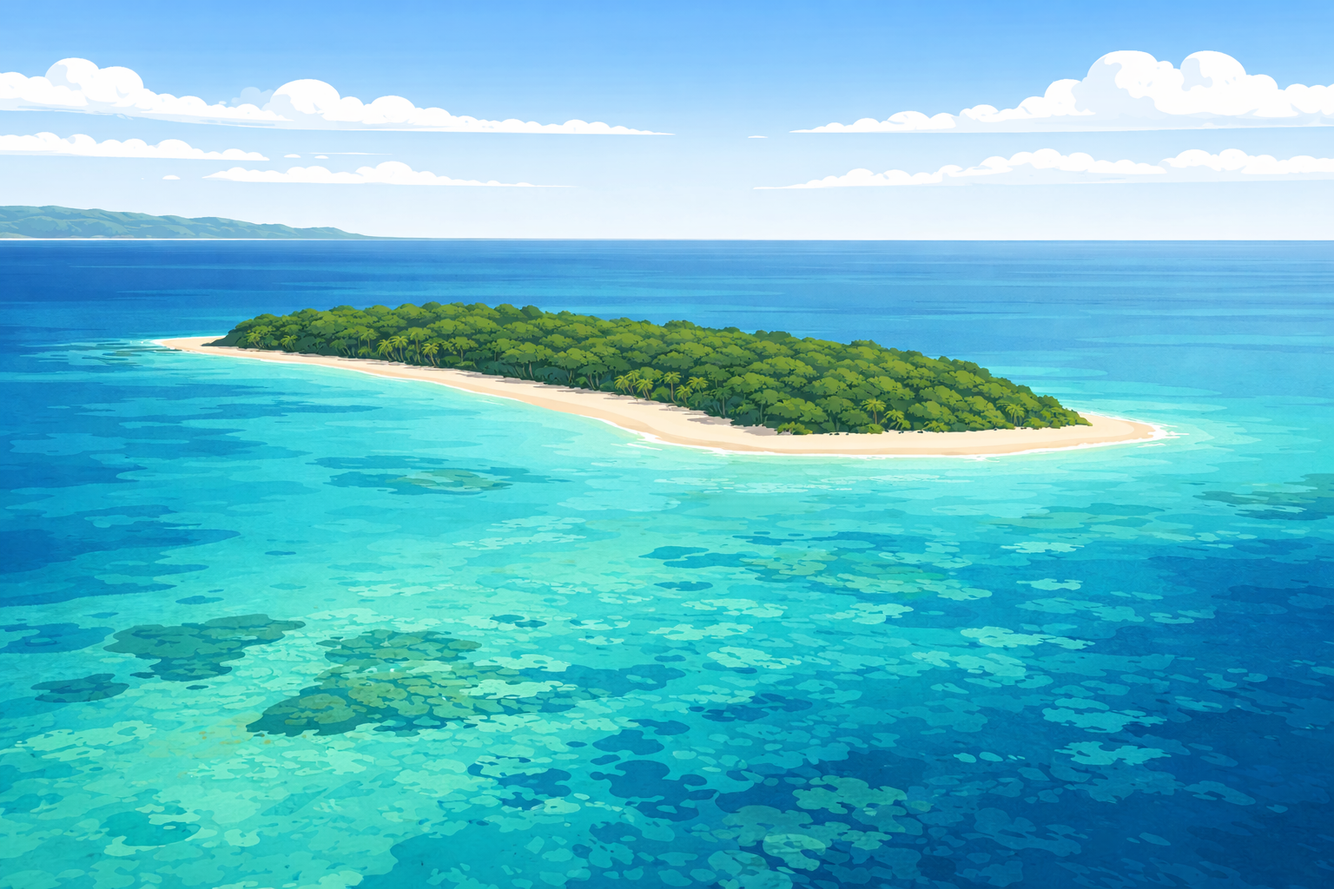
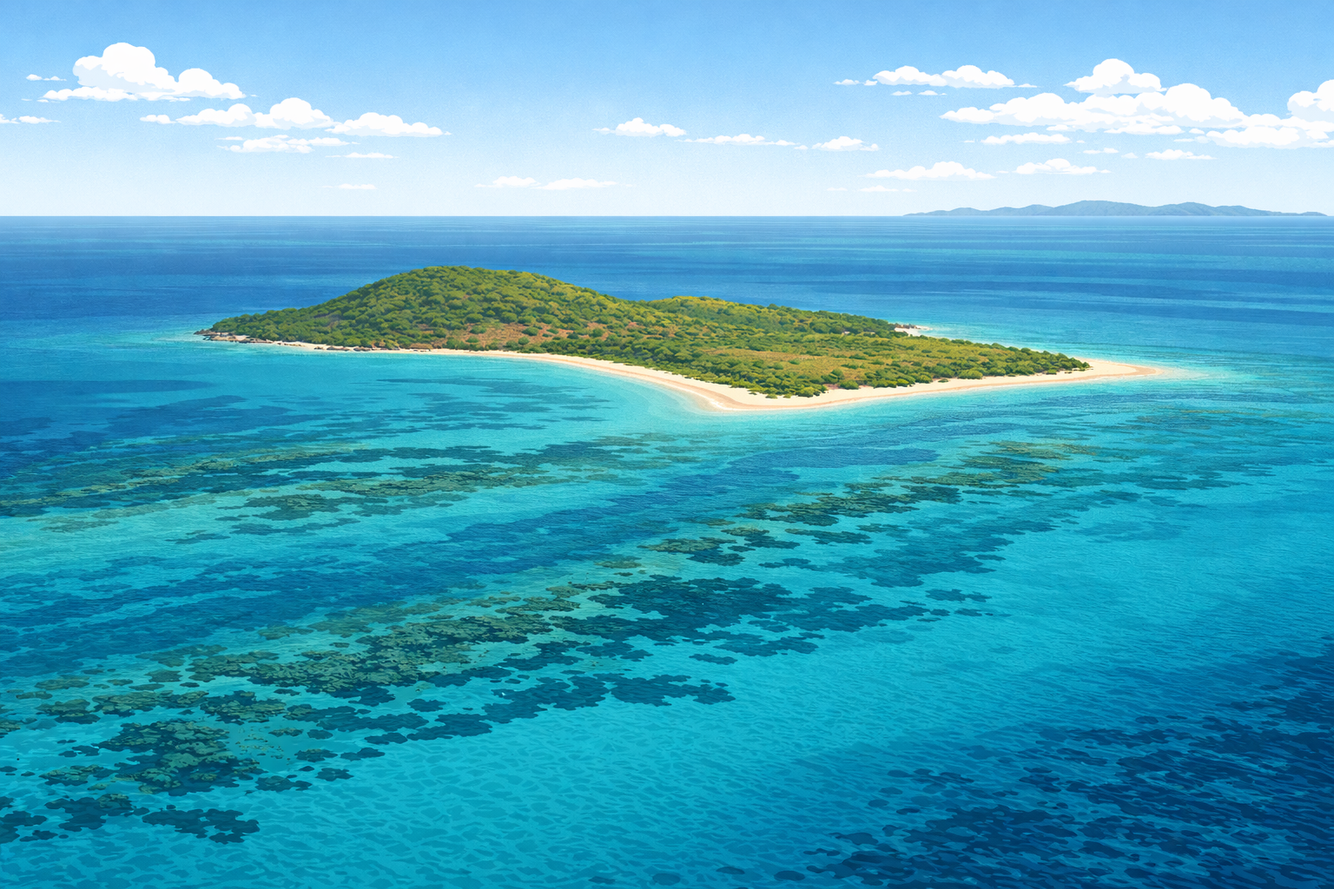
i

diff --git a/data/tours/tours_territories_pz.ts b/data/tours/tours_territories_pz.ts
@@ -1058,52 +1058,52 @@ export const toursTerritoriesPZ: Record<string, TourData> = {
     ]
   },
   "US Virgin Islands": {
-    tourTitle: "Sails, Reefs, and Island Hopping",
-    introText: "Trunk Bay features an underwater snorkeling trail with signs. Sail between the three main islands in the warm Caribbean.",
+    tourTitle: "Reefs, Ruins, and Island Time",
+    introText: "Three Caribbean islands where protected coral reefs, colonial-era forts, and tropical forest trails tell over a thousand years of human and natural history.",
     stops: [
       {
-        stopName: "Trunk Bay (St. John)",
-        imageKeyword: "Trunk Bay (St. John)",
+        stopName: "Virgin Islands National Park (St. John)",
+        imageKeyword: "Virgin Islands National Park",
         description: [
-          "Trunk Bay on the island of Saint John is one of the most photographed beaches in the Caribbean and home to a unique underwater snorkeling trail. The trail features explanatory signs mounted on the seabed that identify coral species, fish, and marine organisms as snorkelers swim along a marked path over the reef. This innovative approach to marine education was one of the first of its kind when it was established in the 1960s.",
-          "The beach itself is a sweeping crescent of white sand backed by lush green hills, most of which are protected within the Virgin Islands National Park. The park covers approximately sixty percent of Saint John and was made possible by a donation of land from Laurance Rockefeller, who fell in love with the island\'s beauty in the 1950s. The clear water and gentle currents at Trunk Bay make it suitable for snorkelers of all skill levels.",
-          "Beyond the snorkeling trail, the waters around Trunk Bay support healthy populations of sea turtles, spotted eagle rays, and colorful reef fish. The small cay offshore, known as Trunk Cay, creates a sheltered channel where marine life congregates. Despite its popularity with cruise ship excursions, the beach maintains its natural beauty thanks to the strict protections of the national park, which prohibit development along the shoreline."
+          "Virgin Islands National Park protects roughly sixty percent of Saint John's land area along with over five thousand acres of surrounding ocean, making it one of the few national parks that safeguards both tropical forest and coral reef. The park was established in 1956 after Laurance Rockefeller, captivated by the island during a visit in 1952, purchased approximately five thousand acres through Jackson Hole Preserve, Inc. and donated them to the National Park Service on the condition the land would never be developed.",
+          "The park's celebrated North Shore beaches rank among the most beautiful in the Caribbean. Trunk Bay draws visitors to its two-hundred-and-twenty-five-yard underwater snorkeling trail, one of the first of its kind, where seabed signs identify coral species and reef fish. Cinnamon Bay stretches nearly a mile and includes plantation ruins at its edge, while Hawksnest Bay offers a quieter shoreline just minutes from Cruz Bay. Viewpoints such as the Peace Hill Windmill ruins provide panoramic vistas across Trunk Bay to the British Virgin Islands.",
+          "Beyond the beaches, the park's interior holds the remains of more than twenty sugar plantations dating to the Danish colonial period, along with pre-Columbian Taino archaeological sites. Hurricanes Irma and Maria, both Category 5 storms, struck in September 2017 and caused widespread damage, but the park reopened by December of that year. The resilience of the reef systems and forest canopy continues to be monitored by researchers studying tropical recovery in a protected landscape."
         ],
-        question: "Who donated the land that made the Virgin Islands National Park possible?",
+        question: "Who donated the land that established Virgin Islands National Park?",
         options: [
           "Laurance Rockefeller.",
           "Andrew Carnegie.",
-          "John D. Rockefeller Sr.",
-          "Theodore Roosevelt."
+          "Theodore Roosevelt.",
+          "John D. Rockefeller Sr."
         ],
         answer: "Laurance Rockefeller.",
-        explanation: "Laurance Rockefeller purchased and donated over five thousand acres of Saint John in the 1950s, creating the foundation for the national park."
+        explanation: "Laurance Rockefeller purchased roughly five thousand acres of Saint John in the 1950s and donated them to the National Park Service, creating the foundation for the park."
       },
       {
-        stopName: "Magens Bay (St. Thomas)",
-        imageKeyword: "Magens Bay (St. Thomas)",
+        stopName: "Reef Bay Trail (St. John)",
+        imageKeyword: "Reef Bay Trail",
         description: [
-          "Magens Bay is a heart-shaped bay on the northern coast of Saint Thomas, consistently ranked among the top ten beaches in the world. The bay is nearly a mile long and completely enclosed by forested hills on three sides, creating calm, protected swimming conditions in water that transitions from pale aquamarine in the shallows to deep sapphire further out. The beach is lined with coconut palms and sea grape trees that provide natural shade.",
-          "The bay was purchased by the territorial government in 1946 to ensure it would remain a public beach forever, a decision that has preserved it from the resort development that dominates other parts of Saint Thomas. A small admission fee helps maintain the facilities, which include changing rooms, a snack bar, and kayak and paddleboard rentals. The surrounding hillsides are a protected arboretum with trails through native tropical vegetation.",
-          "Magens Bay benefits from its north-facing orientation, which shelters it from the prevailing easterly trade winds and keeps the water remarkably flat most of the year. The bay floor is sandy without significant reef, making it ideal for swimming rather than snorkeling. At the eastern end, mangrove wetlands provide habitat for juvenile fish and wading birds, while the western headland offers rocky points where more adventurous visitors can explore tidal pools."
+          "The Reef Bay Trail is a nearly three-mile descent from Centerline Road at nine hundred feet above sea level down through the heart of Virgin Islands National Park to the southern coast of Saint John. Originally a donkey path used to transport sugar and provisions, the trail passes through almost every land habitat on the island, from moist tropical forest near the ridgeline to dry coastal scrub at the shore. Park rangers lead guided hikes that end with a boat ride back to Cruz Bay, sparing visitors the steep climb in reverse.",
+          "About one and a half miles from the trailhead, a short spur trail leads to a freshwater pool at the base of a forty-foot cliff where Taino petroglyphs are carved into the rock face. The symbols, known as zemis, were made over a thousand years ago during the pre-Columbian era, and the site was added to the National Register of Historic Places in 1982. The pool beneath the carvings is one of the few year-round freshwater sources on the island, likely part of why the Taino considered the valley sacred.",
+          "The trail also passes the ruins of four sugar estates that once dominated the Reef Bay Valley. The Danes colonized Saint John in 1718, and by 1726 all lands in the valley had been parceled into twelve plantations. The Reef Bay Sugar Factory at the bottom of the trail was converted to steam power in 1855, the first on Saint John, after the abolition of slavery. A devastating hurricane in 1916 closed the factory for good, and by the 1950s the land was sold to Rockefeller's preservation organization and folded into the national park."
         ],
-        question: "Why was Magens Bay purchased by the territorial government in 1946?",
+        question: "What pre-Columbian artifacts can be found along the Reef Bay Trail?",
         options: [
-          "To ensure it would remain a public beach forever.",
-          "To build a military naval base.",
-          "To develop a luxury resort complex.",
-          "To establish a marine research station."
+          "Taino petroglyphs carved into rock near a freshwater pool.",
+          "Arawak pottery buried beneath the trail surface.",
+          "Carib stone tools displayed in a trailside shelter.",
+          "Aztec calendar stones embedded in the cliff face."
         ],
-        answer: "To ensure it would remain a public beach forever.",
-        explanation: "The government purchase protected Magens Bay from private development and guaranteed public access in perpetuity."
+        answer: "Taino petroglyphs carved into rock near a freshwater pool.",
+        explanation: "The Reef Bay Trail features Taino rock carvings called zemis, made over a thousand years ago near a sacred freshwater pool at the base of a cliff."
       },
       {
-        stopName: "Buck Island Reef (St. Croix)",
-        imageKeyword: "Buck Island Reef (St. Croix)",
+        stopName: "Buck Island Reef National Monument (St. Croix)",
+        imageKeyword: "Buck Island Reef",
         description: [
-          "Buck Island Reef National Monument, located off the northeastern coast of Saint Croix, protects one of the finest marine gardens in the Caribbean Sea. The uninhabited island is surrounded by an elkhorn coral barrier reef that forms an underwater trail similar to the one at Trunk Bay but in a more pristine open-ocean setting. President Kennedy designated it a national monument in 1961, and it was later expanded to protect over nineteen thousand acres of surrounding ocean.",
-          "The barrier reef creates a shallow lagoon on the island\'s south side where visibility regularly exceeds thirty meters. The underwater trail leads snorkelers through gardens of brain coral, elkhorn coral, and staghorn coral, with plaques explaining the ecosystem. Sea turtles are abundant, particularly hawksbill turtles that feed on the sponges growing among the coral. The reef also supports barracuda, parrotfish, and the occasional nurse shark resting on the sandy bottom.",
-          "The island itself features a short hiking trail to an observation point at the summit, where views extend across the deep blue Caribbean to Saint Croix and beyond. The beach on the western end is a pristine strip of white sand accessible only by boat, and charter vessels from Saint Croix make the journey daily. The combination of a healthy reef system, clear water, and national monument protection makes Buck Island one of the most ecologically significant sites in the US territory."
+          "Buck Island Reef National Monument protects nineteen thousand and fifteen acres of ocean and a one-hundred-and-seventy-six-acre uninhabited island located about one and a half miles off the northeastern coast of Saint Croix. President Kennedy designated it a national monument in 1961, and President Clinton greatly expanded its boundaries in 2001 to safeguard the surrounding seascape. Two-thirds of the island is encircled by an elkhorn coral barrier reef that is unique within United States waters and supports over two hundred and fifty fish species.",
+          "The monument's underwater snorkeling trail, one of only three in the United States, guides visitors along the shallow reef on the island's eastern tip with submerged signs identifying corals and marine life. Visibility in the lagoon regularly exceeds thirty meters, revealing gardens of brain coral, staghorn coral, and sea fans. Hawksbill, leatherback, and green sea turtles nest on the island's beaches, while nurse sharks, spotted eagle rays, and blacktip reef sharks patrol the deeper edges of the reef.",
+          "The island itself was used as goat pasture for two centuries beginning in the 1750s. After the animals were removed in the 1950s, native vegetation was allowed to regrow, and a short hiking trail now leads to a summit observation point with views across the Caribbean to Saint Croix. All extractive uses are prohibited within the monument, meaning no fishing, collecting, or anchoring on coral is permitted. Charter boats from Christiansted make the crossing daily, bringing roughly fifty thousand visitors per year to what many consider the territory's most iconic marine experience."
         ],
         question: "Which US president designated Buck Island Reef as a national monument?",
         options: [
@@ -1113,43 +1113,43 @@ export const toursTerritoriesPZ: Record<string, TourData> = {
           "President Johnson."
         ],
         answer: "President Kennedy.",
-        explanation: "John F. Kennedy signed the proclamation establishing Buck Island Reef National Monument in 1961 to protect its exceptional coral reef system."
+        explanation: "John F. Kennedy signed the proclamation establishing Buck Island Reef National Monument in 1961 to protect its exceptional elkhorn coral barrier reef system."
       },
       {
-        stopName: "Charlotte Amalie",
-        imageKeyword: "Charlotte Amalie",
+        stopName: "Christiansted National Historic Site (St. Croix)",
+        imageKeyword: "Christiansted National Historic Site",
         description: [
-          "Charlotte Amalie is the capital of the US Virgin Islands and one of the busiest cruise ship ports in the Caribbean, with its harbor capable of accommodating multiple large vessels simultaneously. The town was established by the Danish in 1666 and named after the queen consort of Denmark. Its long history as a free port and trading hub is reflected in the historic warehouses, cobblestone alleys, and colonial buildings that climb the steep hillsides above the harbor.",
-          "The town\'s Main Street and Back Street are lined with duty-free shops that draw cruise passengers with competitive prices on jewelry, liquor, perfume, and electronics. The narrow passages between the streets, known as staircase streets or gades, are a distinctive feature of the town\'s Danish colonial layout. Some of these passages, like Riise Alley and Royal Dane Mall, have been converted into charming shopping arcades.",
-          "Charlotte Amalie is also home to one of the oldest synagogues in the Americas. The congregation was established in 1796 by Sephardic Jews, and the synagogue features a sand floor, a tradition that commemorates the Exodus through the desert and the secrecy required during the Spanish Inquisition. Fort Christian, a red-brick Danish fortress built in 1672, is the oldest standing structure in the US Virgin Islands and now houses a museum of local history and culture."
+          "Christiansted National Historic Site preserves over seven acres of Danish colonial waterfront architecture in the heart of Saint Croix's main town, making it the first National Park Service unit established in the US Virgin Islands when it was created in 1952. The centerpiece is Fort Christiansvaern, a yellow-brick fortress built between 1738 and 1749 using bricks imported from Denmark as ship ballast and large blocks of coral cut from the harbor's reefs. Named for King Christian VI, it is regarded as the best-preserved Danish fortification in the Caribbean.",
+          "The historic site includes five additional structures that tell the story of one hundred and eighty-three years of Danish rule on Saint Croix, from 1734 to 1917. The Danish West India and Guinea Company Warehouse, built in 1749, was the site of slave auctions until Denmark outlawed the slave trade in 1803. The Steeple Building, Christiansted's first church constructed in 1753, later served as a bakery, storehouse, and town hall. The Scale House and Customs House reflect the port's central role in the triangular trade of sugar, molasses, and rum.",
+          "Denmark sold the Virgin Islands to the United States in 1917 for twenty-five million dollars, and the transfer ceremony took place at Fort Christiansvaern on March 31 of that year. Today the fort is restored to its 1833 appearance and serves as the visitor information point for all three National Park Service units on Saint Croix. The surrounding streets of Christiansted retain their Danish colonial grid layout, with pastel-colored neoclassical buildings that reflect a building code established in 1747 dictating street widths, setbacks, and construction materials."
         ],
-        question: "What country originally established and controlled Charlotte Amalie?",
+        question: "What building material gives Fort Christiansvaern its distinctive yellow color?",
         options: [
-          "Denmark.",
-          "Spain.",
-          "The Netherlands.",
-          "Great Britain."
+          "Bricks imported from Denmark as ship ballast.",
+          "Locally quarried volcanic sandstone.",
+          "Sun-bleached coral limestone blocks.",
+          "Painted stucco over concrete walls."
         ],
-        answer: "Denmark.",
-        explanation: "The Danish established Charlotte Amalie in 1666, and Denmark controlled the Virgin Islands until selling them to the United States in 1917."
+        answer: "Bricks imported from Denmark as ship ballast.",
+        explanation: "Fort Christiansvaern was built with yellow bricks brought from Denmark in the ballast holds of sailing ships, along with coral blocks cut from the harbor reefs."
       },
       {
-        stopName: "Coral World Ocean Park",
-        imageKeyword: "Coral World Ocean Park",
+        stopName: "Fort Christian and Charlotte Amalie (St. Thomas)",
+        imageKeyword: "Fort Christian Charlotte Amalie",
         description: [
-          "Coral World Ocean Park is a marine park and underwater observatory located at Coki Point on Saint Thomas, one of the island\'s best snorkeling beaches. The centerpiece is the Undersea Observatory Tower, a structure that extends down to a depth of five meters below the ocean surface, allowing visitors to view the reef through large windows without getting wet. Schools of fish, sea turtles, and rays swim past the windows in their natural habitat.",
-          "The park also features touch pools where visitors can handle sea stars, sea cucumbers, and sea urchins, as well as larger exhibits with sharks, stingrays, and sea lions. One of the most popular experiences is the Sea Trek, where participants wear weighted diving helmets and walk on the ocean floor surrounded by tropical fish, requiring no scuba certification. The park combines entertainment with education, running marine research and coral restoration programs.",
-          "Adjacent Coki Beach is considered the best shore snorkeling spot on Saint Thomas, with coral formations beginning just a few meters from the waterline. The reef here supports an incredible density of fish, partly because the park\'s feeding programs have conditioned local marine life to congregate in the area. Sergeant majors, blue tang, and yellowtail snappers swarm snorkelers in iridescent clouds, creating a memorable experience just steps from the parking lot."
+          "Fort Christian is a red-brick Danish fortress built between 1672 and 1680 on a rocky peninsula in the harbor of Charlotte Amalie, making it the oldest standing structure in the US Virgin Islands. Named for King Christian V of Denmark, the fort was constructed by Governor Jorgen Iversen Dyppel and the second Danish expeditionary force to arrive on Saint Thomas. Its walls, three to six feet thick, enclosed a self-contained colonial community with chapels, kitchens, guardrooms, and the governor's residence. A Victorian clock tower was added to the entrance in 1874.",
+          "Charlotte Amalie grew up around the fort and was originally called Taphus, a Danish word for tavern, before being renamed in 1691 after Queen Charlotte Amalie of Hesse-Kassel. The town's steep hillsides are laced with staircase streets known as gades, built in the 1700s using red bricks brought from Denmark as ship ballast. The most famous, the Ninety-Nine Steps, actually has one hundred and three steps and climbs to Blackbeard's Castle with panoramic harbor views. At the foot of the hills, the St. Thomas Synagogue, built in 1833, is the oldest synagogue in continuous use in American territory and features a sand-covered floor honoring Sephardic Jewish tradition.",
+          "Fort Christian has served as a defense post, governor's residence, police station, and jail over its three-and-a-half-century history. After a decade-long renovation, it reopened in 2017 to coincide with the centennial of the transfer of the Danish West Indies to the United States. The fort now houses a museum documenting colonial history, the enslaved people who built and sustained the settlement, and the natural disasters that have shaped the islands. Emancipation Garden, directly opposite the fort, commemorates the abolition of slavery in the Danish West Indies in 1848."
         ],
-        question: "What is the Undersea Observatory Tower at Coral World?",
+        question: "What distinction does Fort Christian hold in the US Virgin Islands?",
         options: [
-          "A structure extending below the ocean surface for viewing the reef through windows.",
-          "A lighthouse converted into a marine science laboratory.",
-          "A glass-bottomed boat permanently anchored over the reef.",
-          "A tall tower providing aerial views of the coral reef from above."
+          "It is the oldest standing structure in the territory.",
+          "It is the largest fort ever built in the Caribbean.",
+          "It was the first structure built by the United States government.",
+          "It is the only surviving wooden colonial fortress."
         ],
-        answer: "A structure extending below the ocean surface for viewing the reef through windows.",
-        explanation: "The observatory tower descends five meters underwater, giving visitors a window into the reef ecosystem without requiring them to swim or dive."
+        answer: "It is the oldest standing structure in the territory.",
+        explanation: "Built between 1672 and 1680, Fort Christian is the oldest standing structure in the US Virgin Islands and has served continuously in various civic roles for over three centuries."
       }
     ]
   },
@@ -1158,22 +1158,22 @@ export const toursTerritoriesPZ: Record<string, TourData> = {
     introText: "Volcanic ridges and lagoons meet Polynesian tradition far from the crowds. Visit village churches, then snorkel reef flats in silence.",
     stops: [
       {
-        stopName: "Mata-Utu",
-        imageKeyword: "Mata-Utu",
+        stopName: "Sanctuary of St Pierre Chanel (Poï Basilica), Futuna",
+        imageKeyword: "Sanctuary of St Pierre Chanel",
         description: [
-          "Mata-Utu is the capital of Wallis and Futuna, a tiny French overseas collectivity in the South Pacific located between Fiji and Samoa. The town sits on the eastern coast of Wallis Island, facing a vast turquoise lagoon enclosed by a barrier reef. With a population of only about one thousand, Mata-Utu is one of the smallest capitals in the world, yet it serves as the administrative center for this remote territory that is home to roughly eleven thousand people.",
-          "The town is dominated by the Cathedral of Our Lady of the Assumption, a grand coral-stone church that seems almost impossibly large for such a small community. The strong Catholic faith on Wallis dates to the arrival of Marist missionaries in 1837, and today the islands have one of the highest ratios of churches to population anywhere in the world. Religious festivals and processions are major community events that blend Catholic ceremony with traditional Polynesian customs.",
-          "Wallis retains a traditional Polynesian monarchy alongside the French administration. The Lavelua, or king of Wallis, holds significant cultural authority and maintains a palace in Mata-Utu. The dual governance structure means that French laws coexist with customary law, and land tenure follows traditional clan-based systems rather than Western property rights. This unique political arrangement makes Wallis and Futuna one of the last places in the Pacific where a pre-colonial monarchy still functions."
+          "The Basilique Saint-Pierre-Chanel is a Roman Catholic minor basilica located in Poï on the northern coast of Futuna Island. Built in 1986, the imposing structure was erected on the site where Father Pierre Chanel, a French Marist missionary, was clubbed to death in April 1841 at the instigation of a local chief whose son had converted to Christianity. Chanel was canonized by Pope Pius XII in 1954 and is recognized as the protomartyr and patron saint of Oceania.",
+          "The basilica's architecture features an enormous stepped tower and fine stained-glass windows, characteristic of the grand Catholic churches found across Wallis and Futuna. Inside a smaller chapel beside the main church, the saint's relics are preserved in a glass showcase alongside the two original war clubs used in his killing. In 1987, for the one hundred and fiftieth anniversary of Chanel's arrival in Futuna, his skull was returned from Rome to the sanctuary.",
+          "Every year on April 28, worshippers from across the Pacific gather at the sanctuary for a pilgrimage commemorating Chanel's martyrdom. The site has gained fame as a place where miraculous healings are said to occur. A museum devoted to Chanel, the Musée Océanien et de Saint Pierre Chanel, opened nearby in 1991 and documents the history of Catholic missions in the region as well as the traditional culture of Futuna."
         ],
-        question: "What traditional political institution still functions alongside French administration in Wallis?",
+        question: "Why is Pierre Chanel historically significant in the context of Oceania?",
         options: [
-          "A Polynesian monarchy headed by the Lavelua.",
-          "A council of elected tribal chiefs.",
-          "A military junta from the colonial era.",
-          "An assembly of village elders with no formal title."
+          "He is the first Catholic martyr and patron saint of Oceania.",
+          "He was the first European to circumnavigate the Pacific.",
+          "He established the first democratic parliament in the South Pacific.",
+          "He discovered Futuna Island for the French Empire."
         ],
-        answer: "A Polynesian monarchy headed by the Lavelua.",
-        explanation: "The Lavelua, or king of Wallis, maintains cultural authority and a palace in Mata-Utu, governing alongside the French administration."
+        answer: "He is the first Catholic martyr and patron saint of Oceania.",
+        explanation: "Pierre Chanel was killed on Futuna in 1841 and was canonized in 1954, becoming the protomartyr and patron saint of all Oceania."
       },
       {
         stopName: "Lake Lalolalo",

diff --git a/data/images/images_territories.ts b/data/images/images_territories.ts
@@ -302,7 +302,7 @@ export const imagesTerritories: Record<string, string> = {
   "Pyramiden": "/png/DATABASE/TERRITORY-IMAGES/SVALBARD/pyramiden.png",
   "Glacier boat safari in Isfjorden": "/png/DATABASE/TERRITORY-IMAGES/SVALBARD/isfjorden.png",
   "Global Seed Vault viewpoint": "/png/DATABASE/TERRITORY-IMAGES/SVALBARD/global-seed-vault-viewpoint.png",
-  "Nordenskiöld glacier hike": "/png/DATABASE/TERRITORY-IMAGES/SVALBARD/nordenskiold-glacier-hike.png",
+  "Nordenskiöld glacier hike": "/png/DATABASE/TERRITORY-IMAGES/SVALBARD/nordenskiold.png",
 
   // --- Tokelau ---
   "Tokelau": "/png/DATABASE/TERRITORY-IMAGES/TOKELAU/tokelau.png",
@@ -322,15 +322,15 @@ export const imagesTerritories: Record<string, string> = {
 
   // --- US Virgin Islands ---
   "US Virgin Islands": "/png/DATABASE/TERRITORY-IMAGES/US-VIRGIN-ISLANDS/charlotte-amalie-us-virgin-islands.png",
-  "Trunk Bay (St. John)": "/png/DATABASE/TERRITORY-IMAGES/US-VIRGIN-ISLANDS/trunk-bay.png",
-  "Magens Bay (St. Thomas)": "/png/DATABASE/TERRITORY-IMAGES/US-VIRGIN-ISLANDS/magens-bay.png",
-  "Buck Island Reef (St. Croix)": "/png/DATABASE/TERRITORY-IMAGES/US-VIRGIN-ISLANDS/buck-island-reef.png",
-  "Charlotte Amalie": "/png/DATABASE/TERRITORY-IMAGES/US-VIRGIN-ISLANDS/charlotte-amalie.png",
-  "Coral World Ocean Park": "/png/DATABASE/TERRITORY-IMAGES/US-VIRGIN-ISLANDS/coral-world-ocean-park.png",
+  "Virgin Islands National Park": "/png/DATABASE/TERRITORY-IMAGES/US-VIRGIN-ISLANDS/virgin-islands-national-park.png",
+  "Reef Bay Trail": "/png/DATABASE/TERRITORY-IMAGES/US-VIRGIN-ISLANDS/reef-bay-trail.png",
+  "Buck Island Reef": "/png/DATABASE/TERRITORY-IMAGES/US-VIRGIN-ISLANDS/buck-island-reef.png",
+  "Christiansted National Historic Site": "/png/DATABASE/TERRITORY-IMAGES/US-VIRGIN-ISLANDS/christiansted-national-historic-site.png",
+  "Fort Christian Charlotte Amalie": "/png/DATABASE/TERRITORY-IMAGES/US-VIRGIN-ISLANDS/fort-christian-charlotte-amalie.png",
 
   // --- Wallis and Futuna ---
   "Wallis and Futuna": "/png/DATABASE/TERRITORY-IMAGES/WALLIS-AND-FUTUNA/mata-utu-wallis-and-futuna.png",
-  "Mata-Utu": "/png/DATABASE/TERRITORY-IMAGES/WALLIS-AND-FUTUNA/mata-utu.png",
+  "Sanctuary of St Pierre Chanel": "/png/DATABASE/TERRITORY-IMAGES/WALLIS-AND-FUTUNA/sanctuary-of-st-pierre-chanel.png",
   "Lake Lalolalo": "/png/DATABASE/TERRITORY-IMAGES/WALLIS-AND-FUTUNA/lake-lalolalo.png",
   "Alofi Island reef lagoon": "/png/DATABASE/TERRITORY-IMAGES/WALLIS-AND-FUTUNA/alofi-island-reef-lagoon.png",
   "Talietumu archaeological site": "/png/DATABASE/TERRITORY-IMAGES/WALLIS-AND-FUTUNA/talietumu-archaeological-site.png",
